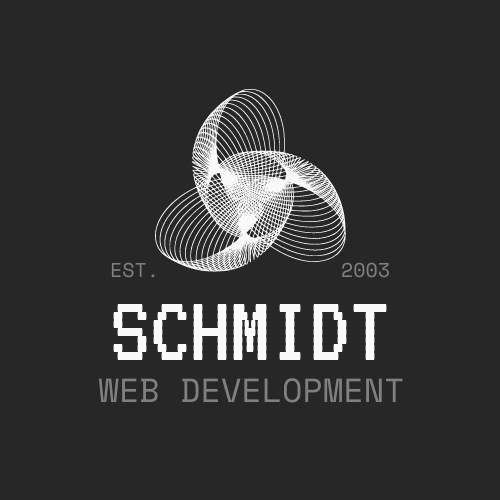
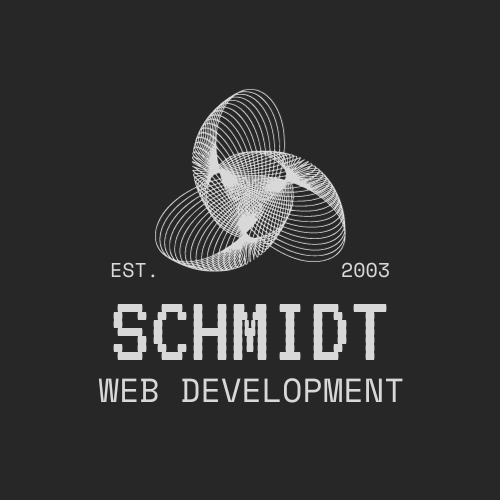
Changed white and images

diff --git a/projects/projects.html b/projects/projects.html
@@ -62,18 +62,18 @@
   <main>
     <div class="body-1">
       <a href="https://sciencefornature.com/" target="_blank" aria-label="Sciencefornature Website"><img
-          src="../resources/Copy of Data Driven Logo.webp" alt="Sciencefornature Logo" /></a>
+          src="../resources/Copy of Data Driven Logo.webp" id="img01" class="imgclass transition" alt="Sciencefornature Logo" /></a>
       <p>This site was a collaboration with Daniel Martínez to make a place on the web
         for Carlos Martínez Núñez to post his research papers and for people to get to
         know him better. He wanted a fun site that felt personal while still maintaining
-        a professional feel to it, so we opted to use complementary colours in the
+        a professional feel to it, so we opted to use comp lementary colours in the
         site with some “unusual fonts” to accomplish this. Daniel and I both learned
         a lot with this project, and were proud to present it to Carlos. This
         project used HTML, CSS, and JS, and was deployed using GitHub and Hostinger.</p>
     </div>
 
     <p class="quote">"I am very happy with Bryan's work. Fast, high quality, professional,
-      and inexpensive. I highly recommend his services."<span class="quote-grey"><br />- Carlos Martínez Núñez</span>
+      and inexpensive. I highly recommend his services."<br /><br />- Carlos Martínez Núñez
     </p>
 
     <!-- <div class="body-2">

diff --git a/aboutme/aboutme.css b/aboutme/aboutme.css
@@ -1,5 +1,5 @@
 html {
-  background-color: #f9f9f9;
+  background-color: #D8D8D8;
   font-family: 'Space Mono', monospace;
   color: #272727;
 }
@@ -33,7 +33,7 @@ body {
 }
 
 #sub-title {
-  color: #808080;
+  color: #272727;
   font-size: 20px;
   text-align: center;
   margin: 0 0 30px 0;
@@ -62,11 +62,11 @@ body {
 .link:hover {
   text-decoration: underline;
   cursor: pointer;
-  color: #808080;
+  color: #272727;
 }
 
 .link:active {
-  color: #808080;
+  color: #272727;
 }
 
 .link p {
@@ -148,7 +148,7 @@ a:link {
   width: 20px;
   left: 5px;
   bottom: 5px;
-  background-color: #f9f9f9;
+  background-color: #D8D8D8;
   -webkit-transition: .5s;
   transition: .5s;
 }
@@ -209,8 +209,8 @@ input:checked+.slider:before {
   }
 
   .slider {
-    background-color: #f9f9f9;
-    box-shadow: 0 0 10px #f9f9f9;
+    background-color: #D8D8D8;
+    box-shadow: 0 0 10px #D8D8D8;
   }
 
   .slider:before {
@@ -218,7 +218,7 @@ input:checked+.slider:before {
   }
 
   input:checked+.slider {
-    background-color: #f9f9f9;
+    background-color: #D8D8D8;
   }
 
   body {

diff --git a/projects/projects.css b/projects/projects.css
@@ -1,5 +1,5 @@
 html {
-  background-color: #f9f9f9;
+  background-color: #D8D8D8;
   font-family: 'Space Mono', monospace;
   color: #272727;
 }
@@ -66,10 +66,6 @@ body {
   /* MARGIN ONLY UNTIL SECOND P IS ADED */
 }
 
-.quote-grey {
-  color: #808080;
-}
-
 @keyframes fadeInAnimation {
   0% {
     opacity: 0;
@@ -83,6 +79,10 @@ body {
 /* Dark Mode */
 
 .drkmode {
+  filter: invert(1);
+}
+
+.imgclass {
   filter: invert(1);
 }
 
@@ -125,7 +125,7 @@ body {
   width: 20px;
   left: 5px;
   bottom: 5px;
-  background-color: #f9f9f9;
+  background-color: #D8D8D8;
   -webkit-transition: .5s;
   transition: .5s;
 }
@@ -225,8 +225,8 @@ input:checked+.slider:before {
   }
 
   .slider {
-    background-color: #f9f9f9;
-    box-shadow: 0 0 10px #f9f9f9;
+    background-color: #D8D8D8;
+    box-shadow: 0 0 10px #D8D8D8;
   }
 
   .slider:before {
@@ -234,7 +234,7 @@ input:checked+.slider:before {
   }
 
   input:checked+.slider {
-    background-color: #f9f9f9;
+    background-color: #D8D8D8;
   }
 
   body {

diff --git a/styles.css b/styles.css
@@ -1,5 +1,5 @@
 html {
-  background-color: #f9f9f9;
+  background-color: #D8D8D8;
   font-family: 'Space Mono', monospace;
   color: #272727;
 }
@@ -47,7 +47,7 @@ body {
   background-repeat: no-repeat;
   background-size: 24px 24px;
   background-position: 6% 50%;
-  background-color: #f9f9f9;
+  background-color: #D8D8D8;
   color: #272727;
   cursor: pointer;
   border-radius: 6px;
@@ -136,7 +136,7 @@ body {
   width: 20px;
   left: 5px;
   bottom: 5px;
-  background-color: #f9f9f9;
+  background-color: #D8D8D8;
   -webkit-transition: .5s;
   transition: .5s;
 }
@@ -191,8 +191,8 @@ input:checked+.slider:before {
   }
 
   .slider {
-    background-color: #f9f9f9;
-    box-shadow: 0 0 10px #f9f9f9;
+    background-color: #D8D8D8;
+    box-shadow: 0 0 10px #D8D8D8;
   }
 
   .slider:before {
@@ -200,7 +200,7 @@ input:checked+.slider:before {
   }
 
   input:checked+.slider {
-    background-color: #f9f9f9;
+    background-color: #D8D8D8;
   }
 
   body {

diff --git a/contact/contact.css b/contact/contact.css
@@ -1,5 +1,5 @@
 html {
-  background-color: #f9f9f9;
+  background-color: #D8D8D8;
   font-family: 'Space Mono', monospace;
   color: #272727;
 }
@@ -93,7 +93,7 @@ body {
   width: 20px;
   left: 5px;
   bottom: 5px;
-  background-color: #f9f9f9;
+  background-color: #D8D8D8;
   -webkit-transition: .5s;
   transition: .5s;
 }
@@ -173,8 +173,8 @@ input:checked+.slider:before {
   }
 
   .slider {
-    background-color: #f9f9f9;
-    box-shadow: 0 0 10px #f9f9f9;
+    background-color: #D8D8D8;
+    box-shadow: 0 0 10px #D8D8D8;
   }
 
   .slider:before {
@@ -182,7 +182,7 @@ input:checked+.slider:before {
   }
 
   input:checked+.slider {
-    background-color: #f9f9f9;
+    background-color: #D8D8D8;
   }
 
   body {

diff --git a/projects/projects.js b/projects/projects.js
@@ -1,5 +1,8 @@
 const heading = document.getElementById('htmlMain');
+const image = document.getElementById('img01');
 const hamburgerBox = document.getElementById('hamburgerBox');
+
+image.classList.toggle('imgclass');
 
 const toggleButton = () => {
   hamburgerBox.classList.toggle('hamburger-box');
@@ -7,11 +10,13 @@ const toggleButton = () => {
 
 const enableDMode = () => {
   heading.classList.add('drkmode');
+  image.classList.add('imgclass');
   window.localStorage.setItem('darkmode', 'enabled');
 };
 
 const disableDMode = () => {
   heading.classList.remove('drkmode');
+  image.classList.remove('imgclass');
   localStorage.setItem('darkmode', 'disabled');
 };
 

diff --git a/header.css b/header.css
@@ -37,7 +37,7 @@ label {
 }
 
 .header-box li a:active {
-  color: #808080;
+  color: #272727;
 }
 
 a:link {
@@ -124,7 +124,7 @@ a:link {
   }
 
   .hamburger-box li a {
-    color: #f9f9f9;
+    color: #D8D8D8;
     line-height: 75px;
     font-size: 25px;
   }
